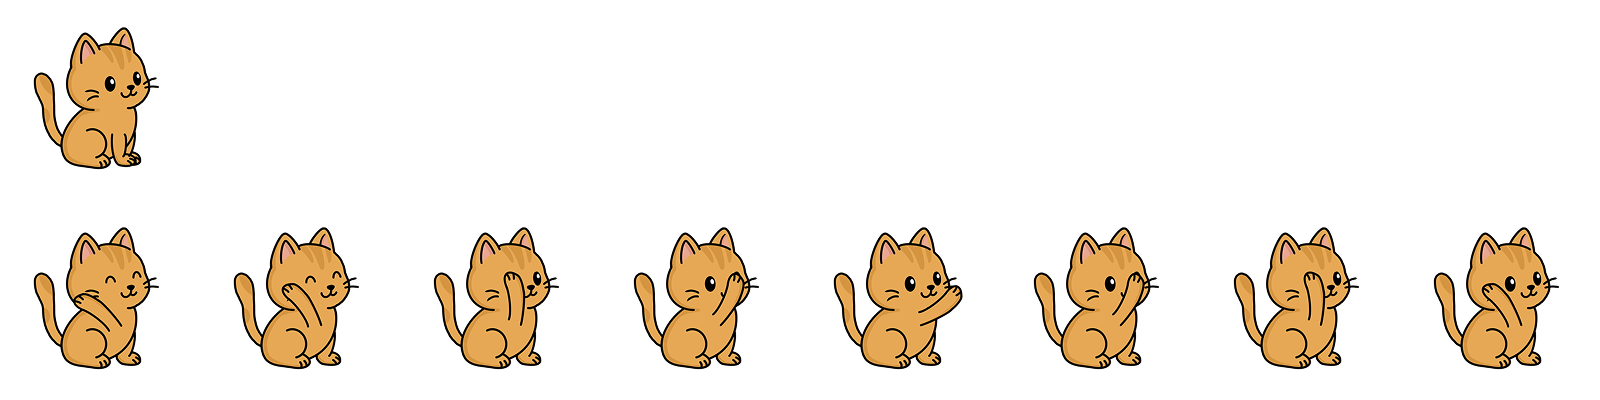
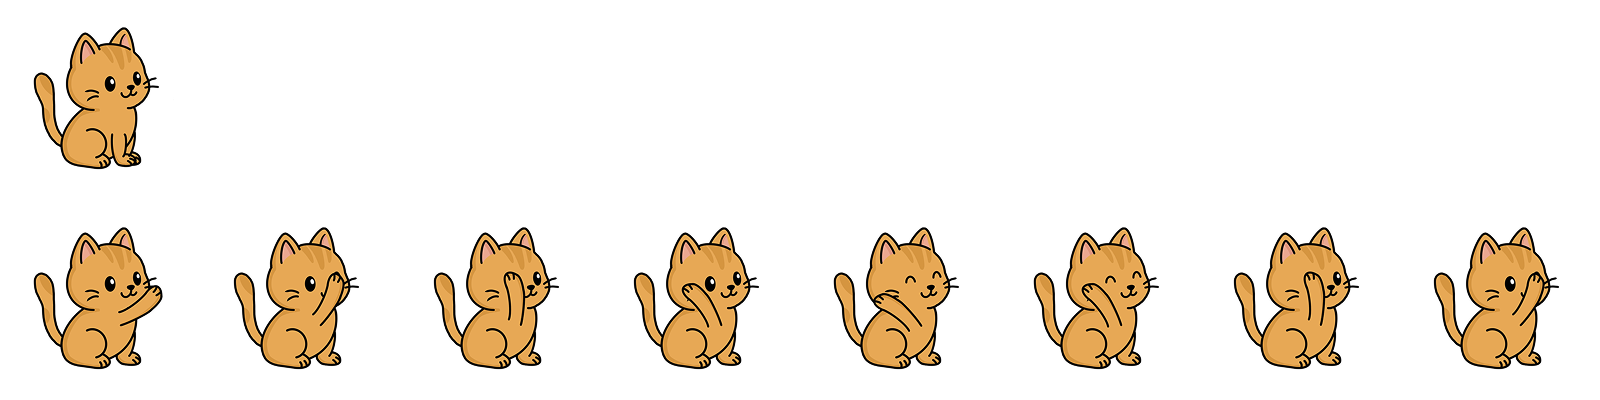
sleepyCat working

diff --git a/Cat.js b/Cat.js
@@ -1,6 +1,6 @@
 import { gameFrame } from './prototype.js';
 import { catAnimation, imageAssets } from './sketch.js';
-import { cheeses } from './GameScene.js';
+import { grid, cheeses, activeMice, calculateCell } from './GameScene.js';
 
 export const movingObjects = [];
 export const catAniDesc = {
@@ -10,19 +10,19 @@ export const catAniDesc = {
     },
     singleYarnCat: {
         idle: { row: 0, frameSize: [200, 200] },
-        action: {row: 1, frames: 8, frameSize: [200, 200], frameDelay: 5 }
+        action: {row: 1, frames: 8, frameSize: [200, 200], frameDelay: 22 }
     },
     doubleYarnCat: {
         idle: { row: 0, frameSize: [200, 200] },
-        action: {row: 1, frames: 8, frameSize: [200, 200], frameDelay: 5 }
+        action: {row: 1, frames: 8, frameSize: [200, 200], frameDelay: 22 }
     },
     sleepyCat: {
-        idle: {row: 0, frameSize: [200, 200] },
-        action: {row: 0, frameSize: [200, 200] }
+        idle: {row: 0, frames: 6, frameSize: [200, 200], frameDelay: 20 },
+        action: {row: 1, frames: 9, frameSize: [200, 200], frameDelay: 10 }
     },
     iceCat: {
         idle: { row: 0, frameSize: [200, 200] },
-        action: {row: 1, frames: 8, frameSize: [200, 200], frameDelay: 5 }
+        action: {row: 1, frames: 8, frameSize: [200, 200], frameDelay: 22 }
     }
 }
 
@@ -32,9 +32,12 @@ export class Cat {
         this.sprite = createSprite(x, y, width, width);
         this.sprite.spriteSheet = spriteSheet;
         this.sprite.addAnis(ani);
+        this.sprite.collider = 'static';
+        this.sprite.layer = 1;
         console.log(this.spriteSheet);
         console.log(this.sprite.animation);
         this.sprite.changeAni('idle');
+        this.active = false;
 
         this.x = x;
         this.y = y;
@@ -42,14 +45,20 @@ export class Cat {
         this.ani = ani;
         this.width = width;
         this.HP = 200;
+
+        const { row, col } = calculateCell(x, y);
+        this.row = row;
+        this.col = col;
     }
 
     switchToIdle() {
         this.sprite.changeAni('idle');
+        this.active = false;
     }
     
     switchToAction() {
         this.sprite.changeAni('action');
+        this.active = true;
     }
 
     action() {
@@ -77,10 +86,10 @@ export class Cat {
         // if HP = 0, remove sprite
     }
 
-    draw() {
-        drawSprite(this.sprite);
-        // animation(this.ani, this.x, this.y, 0, this.width, this.width);
-    }
+    // draw() {
+    //     drawSprite(this.sprite);
+    //     // animation(this.ani, this.x, this.y, 0, this.width, this.width);
+    // }
 
     collide() {
         //
@@ -92,6 +101,7 @@ export class Cat {
 
     remove() {
         this.sprite.remove();
+        grid[this.row][this.col] = null;
     }
 }
 
@@ -124,9 +134,13 @@ export class SingleYarnCat extends Cat {
 
     action() {
         // Throw yarn every 3 seconds -> yarn has velocity x of 1 (to the right)
-        if (millis() - this.lastShot > 3000) {
+        if (activeMice[this.row].length > 0) this.switchToAction();
+        else this.switchToIdle();
+
+        if (this.active && (millis() - this.lastShot > 3000)) {
             const yarn = createSprite(this.x + gameFrame.tileWidth / 2, this.y, 20, 20);
-            yarn.addImage(imageAssets.yarn);
+            yarn.image = imageAssets.yarn;
+            yarn.scale = gameFrame.tileWidth / 1024;
             yarn.vel.x = 1;
             yarn.life = 600;
             movingObjects.push(yarn);
@@ -143,10 +157,15 @@ export class DoubleYarnCat extends Cat {
 
     action() {
         // Throw 2 yarns every 3 seconds -> yarn has velocity x of 1 (to the right)
-        if (millis() - this.lastShot > 3000) {
-            for (let offset of [0, 20]) {   // change to the actual yarn size, not 20
+
+        if (activeMice[this.row].length > 0) this.switchToAction();
+        else this.switchToIdle();
+
+        if (this.active && (millis() - this.lastShot > 3000)) {
+            for (let offset of [0, 20]) {
                 const yarn = createSprite(this.x + gameFrame.tileWidth / 2 + offset, this.y, 20, 20);
-                yarn.addImage(imageAssets.yarn);
+                yarn.image = imageAssets.yarn;
+                yarn.scale = gameFrame.tileWidth / 1024;
                 yarn.vel.x = 1;
                 yarn.life = 600;
                 movingObjects.push(yarn);
@@ -161,18 +180,36 @@ export class SleepyCat extends Cat {
         super(x, y, 150, catAnimation.sleepyCat, catAniDesc.sleepyCat, 100);
         this.awake = false;
         this.wakeStart = undefined;
+        this.targetMouse = undefined;
     }
 
-    action() {
-        if (this.awake && !this.wakeStart) {
-            this.changeAni('wake_up');
+    action(targetMouse) {
+        console.log(`do i get here`);
+        if (this.awake) {
+            this.changeAni('action');
             this.wakeStart = millis();
+            this.targetMouse = targetMouse;
+            this.awake = false;
         }
-        if (this.wakeStart && millis() - this.wakeStart > 1000) {
-            this.remove();
-            // Still needs to remove it from the activeCats or grid[row][col]
+
+        if (this.wakeStart != undefined) {
+            if (millis() - this.wakeStart > 900) {
+                if (this.targetMouse) this.targetMouse.remove();
+            }
+            if (millis() - this.wakeStart > 1480) this.remove();
         }
     }
+
+    // action(mouse) {
+    //     if (this.awake) {
+    //         this.changeAni('action');
+    //         this.wakeStart = millis();
+    //     }
+    //     if (this.wakeStart && millis() - this.wakeStart > 1000) {
+    //         this.remove();
+    //         // Still needs to remove it from the activeCats or grid[row][col]
+    //     }
+    // }
 }
 
 export class IceCat extends Cat {
@@ -183,9 +220,14 @@ export class IceCat extends Cat {
 
     action() {
         // Throw snowball every 3 seconds -> snowball has velocity x of 1 (to the right)
-        if (millis() - this.lastShot > 3000) {
-            const snowball = createSprite(this.x, this.y, 20, 20);
-            snowball.addImage(imageAssets.snowball);
+
+        if (activeMice[this.row].length > 0) this.switchToAction();
+        else this.switchToIdle();
+
+        if (this.active && (millis() - this.lastShot > 3000)) {
+            const snowball = createSprite(this.x + gameFrame.tileWidth / 2, this.y, 20, 20);
+            snowball.image = imageAssets.snowball;
+            snowball.scale = gameFrame.tileWidth / 1024;
             snowball.vel.x = 1;
             snowball.life = 600;
             movingObjects.push(snowball);

diff --git a/GameScene.js b/GameScene.js
@@ -1,18 +1,22 @@
 import { prototypeFrame, gameFrame } from './prototype.js';
-import { StartScene } from './StartScene.js';
 import { imageAssets, catImages, catAnimation, selectedCatType, resetCatType } from './sketch.js';
-import { Cat, ChefCat, SingleYarnCat, DoubleYarnCat, SleepyCat, IceCat } from './Cat.js'
+import { Cat, ChefCat, SingleYarnCat, DoubleYarnCat, SleepyCat, IceCat } from './Cat.js';
+import { Mice, BasicMouse, HelmetMouse } from './Mouse.js';
+import { level1Mice } from './level/level1.js';
 
 const gameParent = document.getElementById('gameFrame');
 const upperContainer = document.getElementById('upperContainer');
 const controlPanel = document.getElementById('controlPanel');
 const cheeseCount = document.getElementById('cheeseCount');
 const activeCats = [];
+export const activeMice = Array.from({ length: 5 }, () => []);
 let robotVacuums = [];
 let gameSprites = [];
+let sleepyCats = [];
 export let cheeses = [];
-let grid = Array(5).fill().map(() => Array(9).fill(null));
-let isAttacked = Array(5).fill(false);
+export let grid = Array(5).fill().map(() => Array(9).fill(null));
+let startTime;
+let levelMice = [...level1Mice];
 
 function createCat(type, x, y) {
     switch (type) {
@@ -33,11 +37,21 @@ function createCat(type, x, y) {
     }
 }
 
-function calculateCell(mouseX, mouseY) {
+function createMouse(type, x, y) {
+    switch (type) {
+        case 'basicMouse':
+            return new BasicMouse(x, y);
+        case 'helmetMouse':
+            return new HelmetMouse(x, y);
+        default:
+            return undefined;
+    }
+}
+
+export function calculateCell(mouseX, mouseY) {
     let col = floor((mouseX - gameFrame.padding_left) / gameFrame.tileWidth)
     let row = floor((mouseY - gameFrame.padding_up) / gameFrame.tileHeight)
     
-    console.log(`clicked on grid[${row}][${col}]`);
     return {row, col};
 }
 
@@ -77,6 +91,8 @@ export function GameScene() {
             gameSprites.push(vacuum);
             robotVacuums.push(vacuum);
         }
+
+        startTime = millis() / 1000;
     }
 
     this.setup = function() {
@@ -103,7 +119,27 @@ export function GameScene() {
         // fix the border radius --> create a ratio for it
         rect(gameFrame.border / 2, gameFrame.border / 2, width - gameFrame.border, height - gameFrame.border, 35);
         drawGrid();
+
+        let currTime = millis() / 1000 - startTime;
+
+        while (levelMice.length > 0 && levelMice[0].time <= currTime) {
+            const { time, type, row } = levelMice.shift();
+            spawnMouse(type, row);
+        }
+
         activeCats.forEach((cat) => cat.action());
+        for (let row = 0; row < gameFrame.rows; row++) {
+            for (let i = 0; i < activeMice[row].length; i++) {
+                const currMouse = activeMice[row][i];
+                sleepyCats.forEach((cat) => {
+                    if (cat.sprite.overlaps(currMouse.sprite)) {
+                        cat.awake = true;
+                        cat.action(currMouse);
+                        activeMice[row].splice(i, 1);
+                    }
+                })
+            }
+        }
     }
 
     this.exit = function() {
@@ -120,6 +156,10 @@ export function GameScene() {
             if (cat) {
                 cat.remove();
                 // TODO: need to remove from activeCats too
+                const index = activeCats.indexOf(cat);
+                if (index !== -1) {
+                    activeCats.splice(index, 1);
+                }
                 grid[row][col] = null;
             }
         }
@@ -133,6 +173,7 @@ export function GameScene() {
                 grid[row][col] = newCat;
                 activeCats.push(newCat);
                 gameSprites.push(newCat.sprite); // Is this redundant? kedouble2
+                if (newCat instanceof SleepyCat) sleepyCats.push(newCat);
                 resetCatType();
             }
             // grid[row][col] = selectedCatType;
@@ -188,4 +229,16 @@ function updateCheeseCount(n) {
     currCheese += n;
     cheeseCount.textContent = currCheese;
     // TODO: handle if n is negative and currCheese < -n somewhere else
+}
+
+function spawnMouse(type, row) {
+    let x = width;
+    let y = gameFrame.padding_up + row * gameFrame.tileHeight + gameFrame.tileHeight / 2;
+
+    let newMouse = new createMouse(type, x, y);
+    if (newMouse) {
+        newMouse.sprite.scale = gameFrame.catRatio;
+        activeMice[row].push(newMouse);
+        gameSprites.push(newMouse.sprite); // Is this redundant? kedouble2 sama allSprites
+    }
 }

diff --git a/sketch.js b/sketch.js
@@ -20,10 +20,11 @@ function preload() {
     gameBackground = loadImage('assets/gamebg3.png');
 
     imageAssets.cheese = loadImage('assets/cheese.png');
-    // imageAssets.yarn = loadImage('assets/yarn.png');
-    // imageAssets.snowball = loadImage('assets/snowball.png');
+    imageAssets.yarn = loadImage('assets/yarn.png');
+    imageAssets.snowball = loadImage('assets/snowball.png');
     imageAssets.robotVacuum = loadImage('assets/robot_vacuum.png');
     imageAssets.gameBackground = loadImage('assets/gamebg3.png');
+    imageAssets.mouse = loadImage('assets/mouse.png');
 
     catImages.chefCat = loadImage('assets/chef_cat_icon.png');
     catImages.singleYarnCat = loadImage('assets/single_yarn_cat_icon.png');
@@ -34,7 +35,7 @@ function preload() {
     catAnimation.chefCat = loadImage('assets/chef_cat_ani.png');
     catAnimation.singleYarnCat = loadImage('assets/single_yarn_cat_ani.png');
     catAnimation.doubleYarnCat = loadImage('assets/double_yarn_cat_ani.png');
-    catAnimation.sleepyCat = loadImage('assets/sleepy_cat_icon.png');
+    catAnimation.sleepyCat = loadImage('assets/sleepy_cat_ani.png');
     catAnimation.iceCat = loadImage('assets/ice_cat_ani.png');
 
     // catAnimation.chefCat = loadAni('assets/chef_cat_ani.png', {

diff --git a/Mouse.js b/Mouse.js
@@ -1,0 +1,30 @@
+import { gameFrame } from './prototype.js';
+import { imageAssets } from './sketch.js';
+
+export class Mice {
+    constructor(x, y, speed, HP, AP, img, width) {
+        this.sprite = createSprite(x, y, width, width);
+        this.sprite.image = img;
+        this.sprite.layer = 2;
+        this.sprite.velocity.x = speed;
+        this.HP = HP;
+        this.AP = AP;
+        this.width = width;
+    }
+    
+    remove() {
+        this.sprite.remove();
+    }
+}
+
+export class BasicMouse extends Mice {
+    constructor(x, y) {
+        super(x, y, -0.25, 100, 20, imageAssets.mouse, gameFrame.tileWidth);
+    }
+}
+
+export class HelmetMouse extends Mice {
+    constructor(x, y) {
+        super(x, y, -0.25, 150, 20, imageAssets.mouse, gameFrame.tileWidth);
+    }
+}

diff --git a/level/Level1.js b/level/Level1.js
@@ -1,0 +1,8 @@
+export const level1Mice = [
+    { time: 5, type: 'basicMouse', row: 0 },
+    { time: 10, type: 'basicMouse', row: 3 },
+    { time: 20, type: 'basicMouse', row: 2 },
+    { time: 23, type: 'basicMouse', row: 0 },
+    { time: 30, type: 'basicMouse', row: 4 },
+    { time: 36, type: 'helmetMouse', row: 1 },
+]
